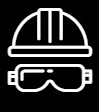
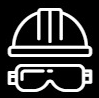
inserite icone in section MembershipPlans

diff --git a/src/components/AppMain.vue b/src/components/AppMain.vue
@@ -181,7 +181,7 @@ export default {
                 {
                     plan: 'Basic',
                     description: 'Learn to ride a bike from the professionals.',
-                    img: 'favicon-gobike.png',
+                    img: 'basic-black-icon.png',
                     price: '1000',
                     services: [
                         { included: true, service: 'Phone Mountaineer bike training' },
@@ -195,7 +195,7 @@ export default {
                 {
                     plan: 'Standard',
                     description: 'Learn to ride a bike from the professionals.',
-                    img: 'favicon-gobike.png',
+                    img: 'work-black-icon.png',
                     price: '2500',
                     services: [
                         { included: true, service: 'Phone Mountaineer bike training' },
@@ -209,7 +209,7 @@ export default {
                 {
                     plan: 'Premium',
                     description: 'Learn to ride a bike from the professionals.',
-                    img: 'favicon-gobike.png',
+                    img: 'special-black-icon.png',
                     price: '5000',
                     services: [
                         { included: true, service: 'Phone Mountaineer bike training' },

diff --git a/src/components/SectionMembershipPlans.vue b/src/components/SectionMembershipPlans.vue
@@ -1,6 +1,9 @@
 <template>
     <section class="my_container mx-auto mb-5">
         <div class="my_titles-sections">
+            <div class="rounded overflow-hidden mb-2 mx-auto">
+                <img class="" src="../assets/img/special-black-icon.png" alt="special photo">
+            </div>
             <h1>Special Packs</h1>
             <p>Select pricing plan to get more</p>
         </div>
@@ -59,6 +62,18 @@ export default {
 </script>
 <style lang="scss" scoped>
 section.my_container {
+    div.my_titles-sections {
+        div {
+            height: 65px;
+            width: 70px;
+
+            img {
+                width: 100%;
+                height: 100%;
+            }
+        }
+    }
+
     div.my_card {
         width: calc((100% / 3) - 2rem);
         margin: 1rem;
@@ -106,6 +121,11 @@ section.my_container {
 
             p {
                 font-size: 0.7rem;
+            }
+
+            img {
+                margin-top: 1rem;
+                width: 60px;
             }
 
         }
